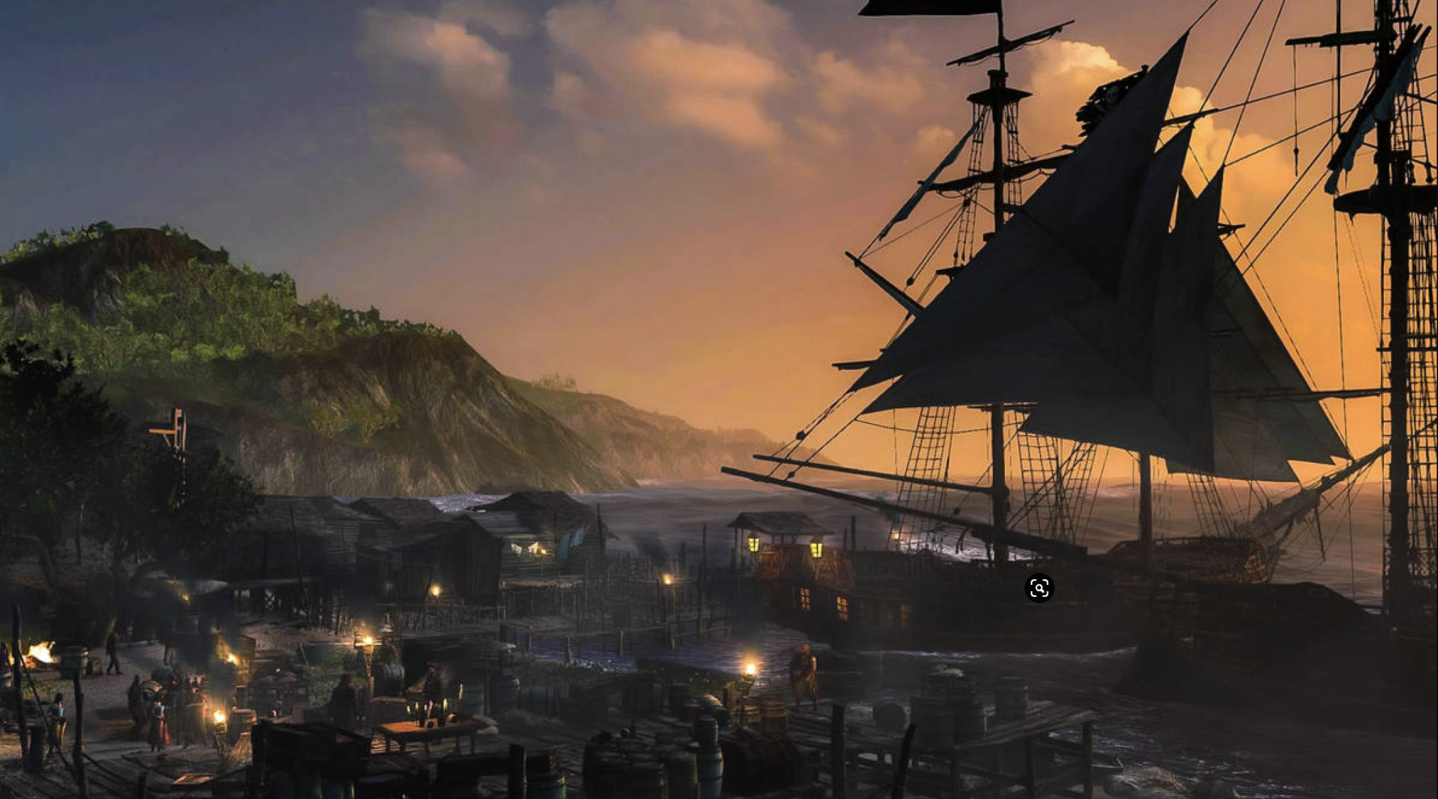
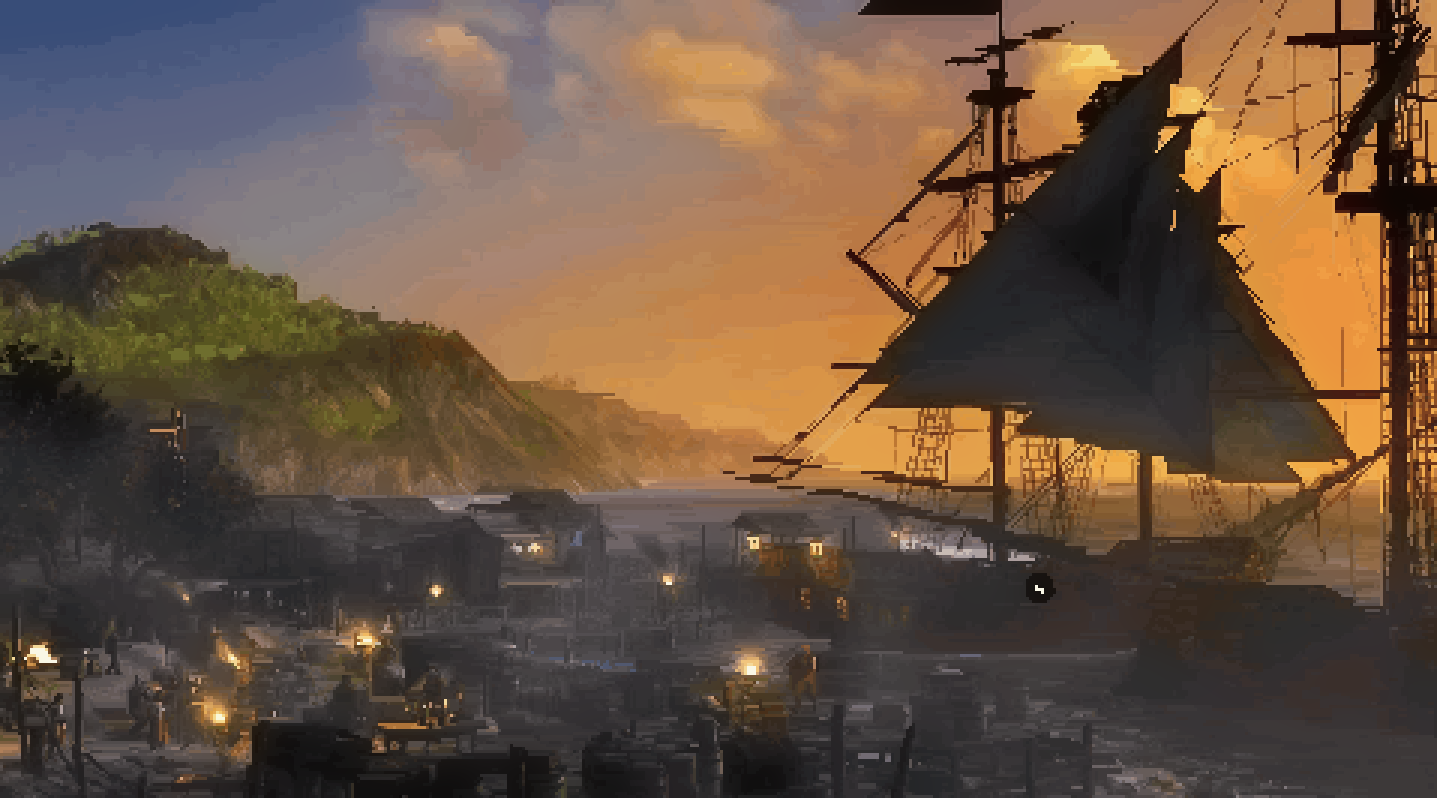
이미지 교체

diff --git a/client/src/components/Roadmap.js b/client/src/components/Roadmap.js
@@ -103,8 +103,8 @@ const RoadmapStyle = styled.div`
 
   .item_list {
     /* background-color: darkgoldenrod; */
-    font-family: 'Walter Turncoat', cursive;
-    font-size: 3vw;
+    font-family: 'East Sea Dokdo', cursive;
+    font-size: 4vw;
     text-align: center;
     padding-top: 20px;
   }

diff --git a/client/src/components/Vault/Vault.js b/client/src/components/Vault/Vault.js
@@ -1,5 +1,5 @@
 import React from 'react';
-import vault from '../../assets/img/Vault/vault_background.png';
+import vault from '../../assets/img/Vault/Vault.png';
 import styled from 'styled-components';
 import TemporaryDrawer from './Drawer';
 
